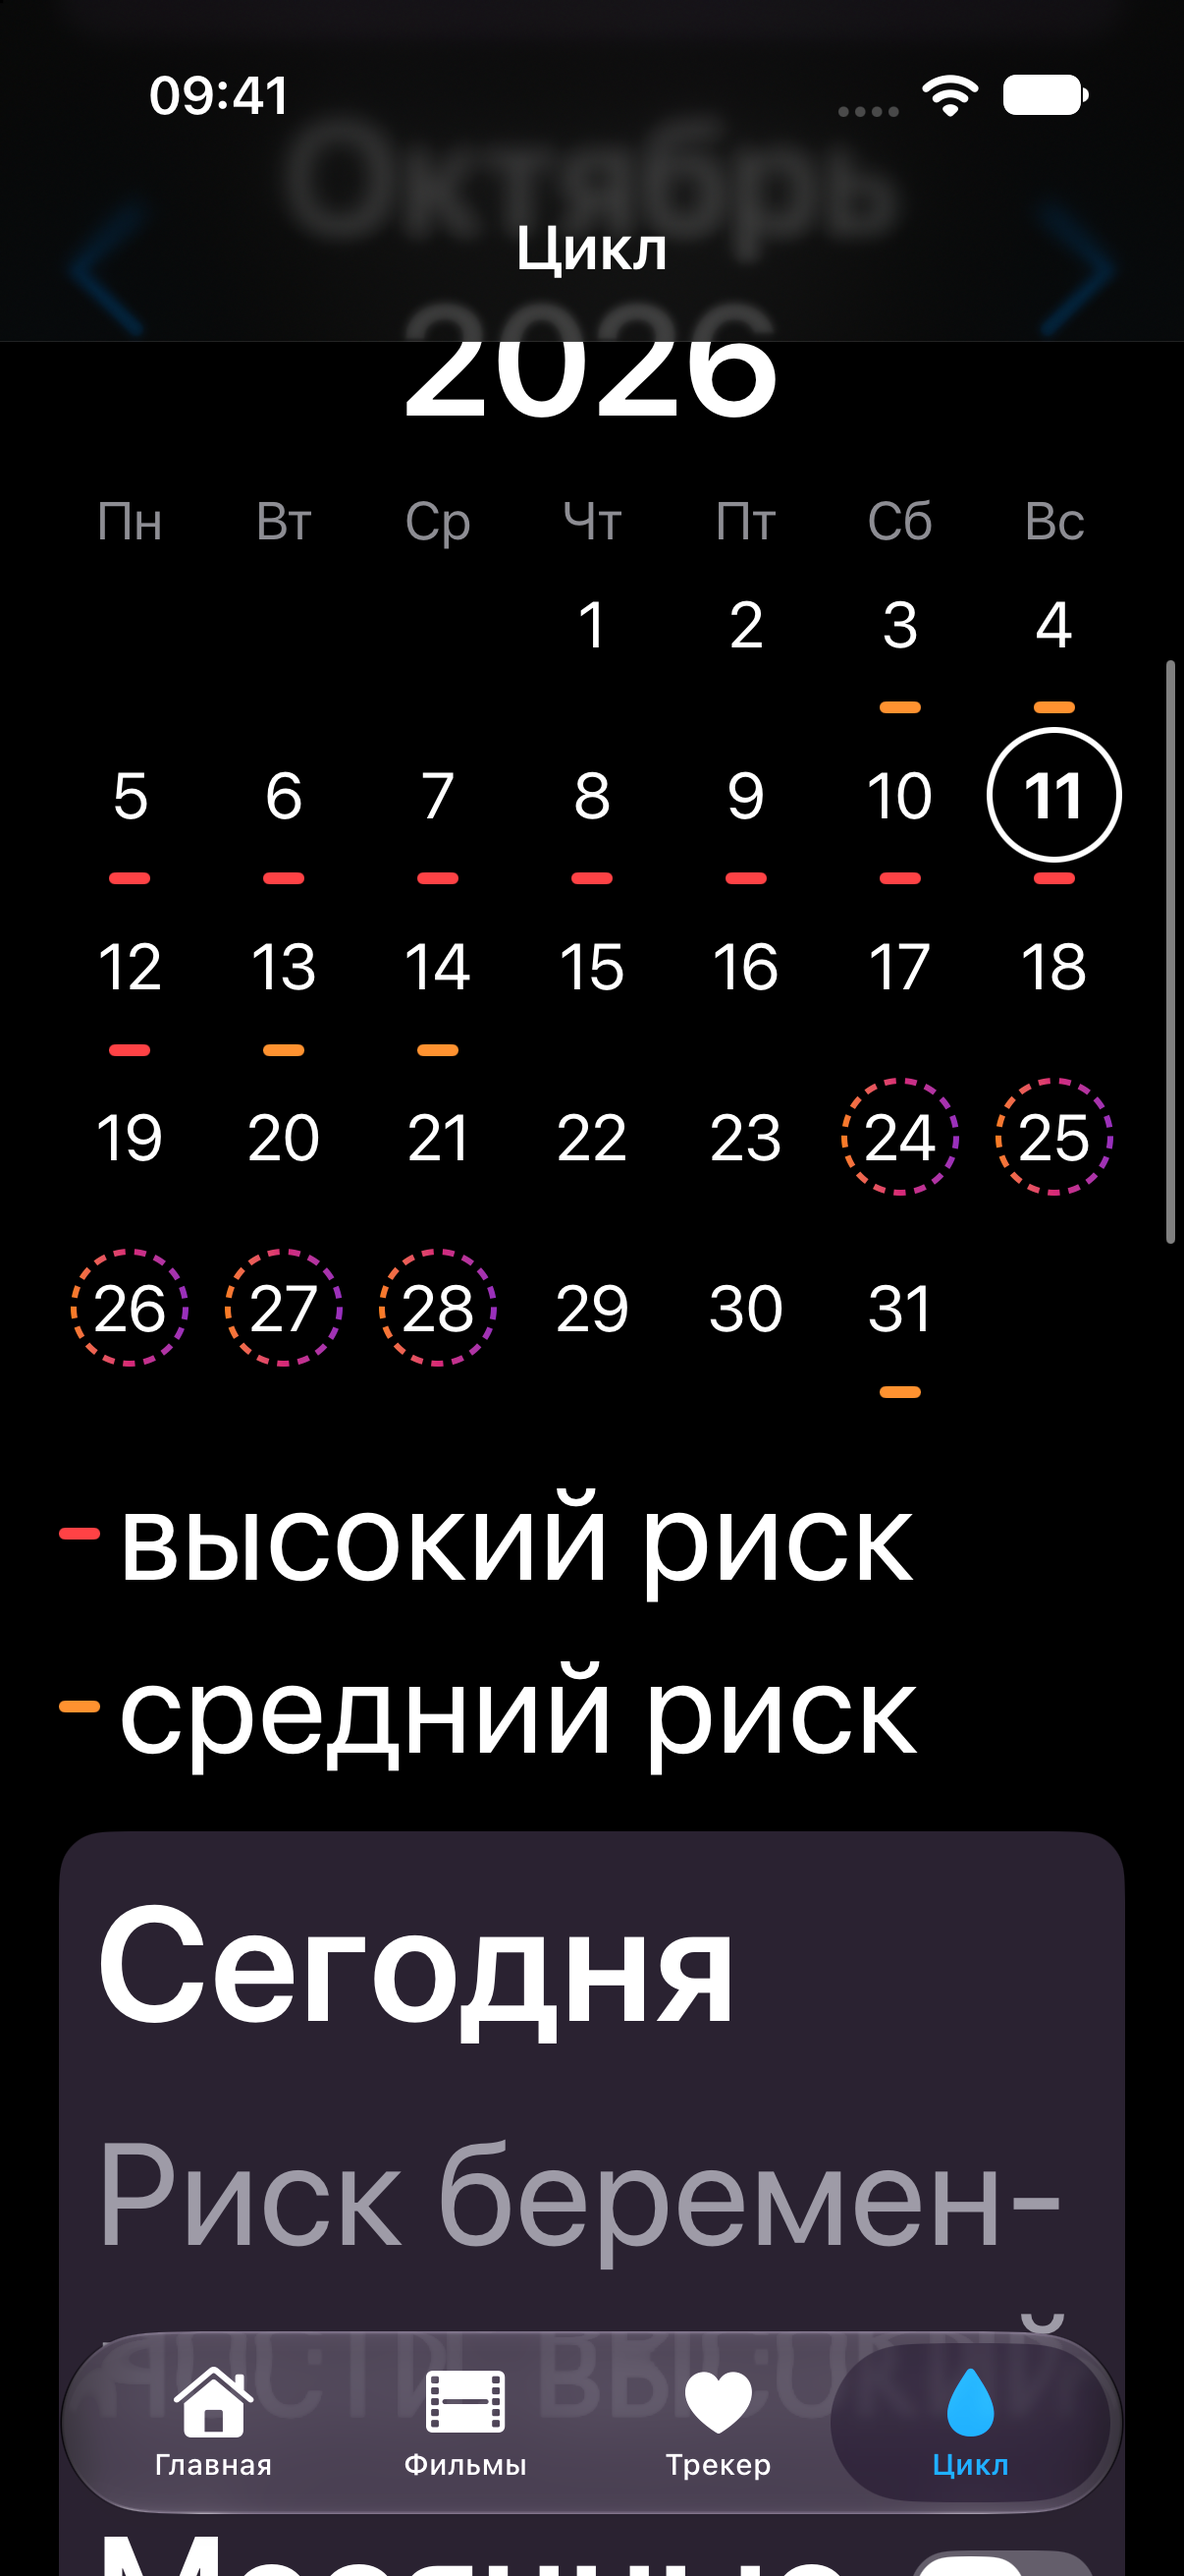
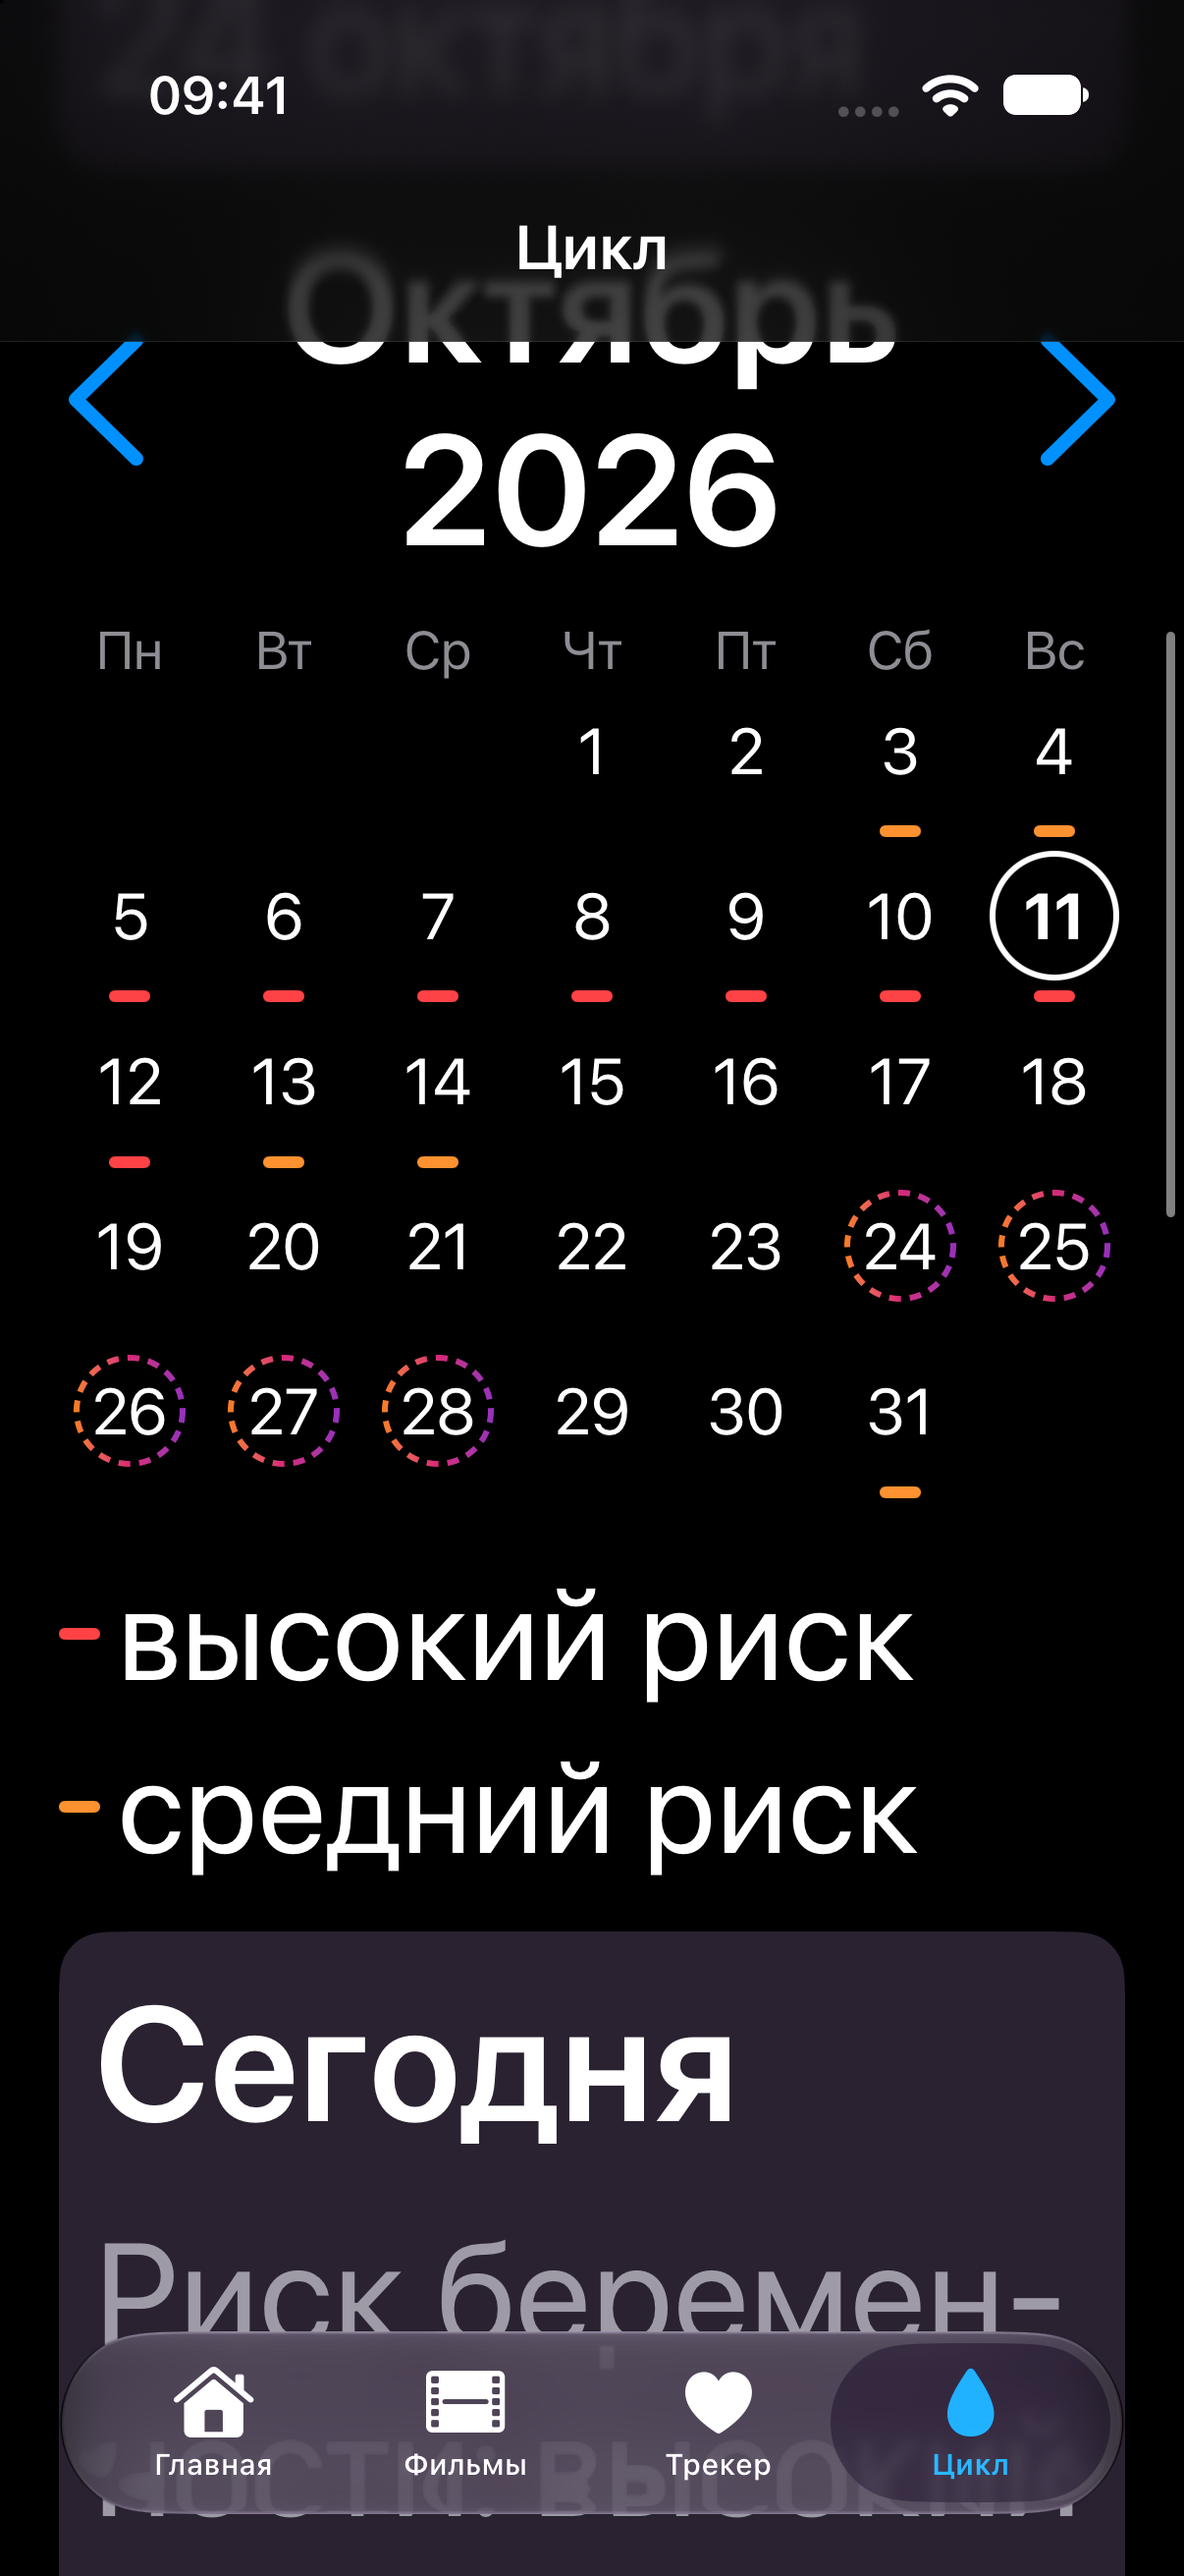
Уменьшить предел круга числа до 38 pt
С кольцом выбора круг занимает 44 pt и помещается в колонку iPhone SE,
не вылезая за заливку фазы. Скриншоты пересняты.

diff --git a/App/OneToOne/Features/Cycle/MonthGridView.swift b/App/OneToOne/Features/Cycle/MonthGridView.swift
@@ -50,7 +50,7 @@ struct MonthGridView: View {
                     }
                 }
             }
-            // Семь колонок по ~45 pt: крупнее «28» и «Пн» в них не влезут, поэтому сетка растёт только до xxxLarge.
+            // Семь колонок по ~44 pt на iPhone SE: крупнее «28» и «Пн» в них не влезут, поэтому сетка растёт только до xxxLarge.
             // Шапка, легенды и карточка дня растут дальше, VoiceOver читает каждый день целиком.
             .dynamicTypeSize(...DynamicTypeSize.xxxLarge)
         }
@@ -70,9 +70,9 @@ private struct DayCell: View {
     let action: (() -> Void)?
     @Environment(\.locale) private var locale
     @Environment(\.colorScheme) private var colorScheme
-    /// Круг числа растёт со шрифтом, но не шире 40: с кольцом выбора он должен влезть в колонку.
+    /// Круг числа растёт со шрифтом, но не шире 38: с кольцом выбора (+6) это 44, ширина колонки на iPhone SE.
     @ScaledMetric(relativeTo: .callout) private var scaledCircle: CGFloat = 34
-    private var circle: CGFloat { min(scaledCircle, 40) }
+    private var circle: CGFloat { min(scaledCircle, 38) }
 
     var body: some View {
         if let action {

diff --git a/docs/decisions.md b/docs/decisions.md
@@ -46,4 +46,4 @@
 - 2026-10-10: Риск беременности считаем календарным методом (Огино–Кнаус), низкий только при ≥3 циклах с разбросом ≤10 дней, „безопасных“ дней не показываем. Причина: прогноз не знает настоящую овуляцию, обещать безопасность нечестно.
 - 2026-10-10: Офлайн-каталог фильмов: в пакете лежит `movies.json` (топ-150 Кинопоиска, обновляет `swift run UpdateMovies` с ключом), а всё, что пришло от Кинопоиска, телефон запоминает в отдельном файле `MovieCatalogCache.json` (не в `AppData`, в iCloud не едет; до 2000 фильмов, вытесняются самые давние). Раз в день — 2 запроса: следующая страница топа и новинки года; день засчитывается, если пришёл хоть один ответ; пока база пустая, догрузка идёт с первой страницы топа. В колоду всегда добавляются фильмы с телефона по жанрам настроения (по рейтингу Кинопоиска, до 40) после сетевых рекомендаций. Причина: колода собирается без сети и после лимита 200 запросов в день, при этом запросов на подбор не больше, чем было; решили при обсуждении #55.
 - 2026-10-10: Пока месячные задерживаются, в будущих днях календаря нет низкого риска: окно по прогнозу остаётся высоким, остальное — «средний, задержка». Причина: без заворота сегодня задержка, а завтра по прогнозу «низкий» — пустой день в календаре выглядел бы разрешением; нашлось на ревью #65.
-- 2026-10-11: Сетка календаря цикла (`MonthGridView`) растёт со шрифтом только до `.xxxLarge`, круг числа — до 40 pt; шапка месяца, легенды и карточка дня растут без предела, легенда фаз на размерах Универсального доступа в одну колонку. Причина: семь колонок по ~45 pt на iPhone SE и iPhone 17, крупнее «28» и «Пн» в них не помещаются, а VoiceOver и карточка дня дают полную дату крупно; решено на брейншторме #72.
+- 2026-10-11: Сетка календаря цикла (`MonthGridView`) растёт со шрифтом только до `.xxxLarge`, круг числа — до 38 pt (с кольцом выбора 44 pt, колонка iPhone SE); шапка месяца, легенды и карточка дня растут без предела, легенда фаз на размерах Универсального доступа в одну колонку. Причина: семь колонок по ~45 pt на iPhone SE и iPhone 17, крупнее «28» и «Пн» в них не помещаются, а VoiceOver и карточка дня дают полную дату крупно; решено на брейншторме #72.

diff --git a/docs/superpowers/plans/2026-10-10-calendar-large-text.md b/docs/superpowers/plans/2026-10-10-calendar-large-text.md
@@ -13,7 +13,7 @@
 ## Global Constraints
 
 - Предел шрифта сетки: `.dynamicTypeSize(...DynamicTypeSize.xxxLarge)` только на `LazyVGrid` в `MonthGridView` (шапка и легенды без предела).
-- Круг числа: `@ScaledMetric(relativeTo: .callout)` с базой 34, не больше 40 pt (`min(…, 40)`). На обычном размере (`.large`) ровно 34, как сейчас.
+- Круг числа: `@ScaledMetric(relativeTo: .callout)` с базой 34, не больше 38 pt (`min(…, 38)`, с кольцом 44 pt = колонка iPhone SE). На обычном размере (`.large`) ровно 34, как сейчас.
 - Точка симптомов (5×5), полоска риска (`RiskMark` 14×4), отступы ячейки и её `minHeight: 44` не меняются.
 - Пунктир прогноза, обводка выбранного дня (`padding(-3)`) и заливка месячных привязаны к кругу и растут вместе с ним.
 - На обычном размере шрифта вид не меняется.
@@ -21,7 +21,7 @@
 
 ## Review Focus
 
-- iPhone SE (ширина 375): на `.xxxLarge` обводка выбранного дня (40 + 6 = 46 pt) не должна налезать на соседнее число (колонка ~44 pt плюс 4 pt промежутка).
+- iPhone SE (ширина 375): на `.xxxLarge` обводка выбранного дня (38 + 6 = 44 pt) не должна налезать на соседнее число (колонка ~44 pt плюс 4 pt промежутка).
 - Размеры Универсального доступа AX1…AX5: сетка остаётся как на `.xxxLarge`, шапка месяца переносит длинное название («Сентябрь 2026») и не налезает на стрелки.
 - `PhaseLegend` на AX-размерах: «Фолликулярная» не рвётся посреди слова.
 - Тёмная тема: заливка фаз и цвета не меняются (вёрстку трогаем, цвета нет).
@@ -38,7 +38,7 @@
 - Modify: `docs/decisions.md`
 
 - [ ] **Step 1:** В `MonthGridView.body` на `LazyVGrid` добавить `.dynamicTypeSize(...DynamicTypeSize.xxxLarge)` с комментарием почему.
-- [ ] **Step 2:** В `DayCell` добавить `@ScaledMetric(relativeTo: .callout) private var scaledCircle: CGFloat = 34` и `private var circle: CGFloat { min(scaledCircle, 40) }`; заменить `.frame(width: 34, height: 34)` на `.frame(width: circle, height: circle)`.
+- [ ] **Step 2:** В `DayCell` добавить `@ScaledMetric(relativeTo: .callout) private var scaledCircle: CGFloat = 34` и `private var circle: CGFloat { min(scaledCircle, 38) }`; заменить `.frame(width: 34, height: 34)` на `.frame(width: circle, height: circle)`.
 - [ ] **Step 3:** В шапке у `Text(month.title)` добавить `.multilineTextAlignment(.center)`.
 - [ ] **Step 4:** Превью `#Preview("Крупный шрифт")` для `MonthGridView` с месячными, прогнозом, симптомами, рисками и выбранным днём, `.dynamicTypeSize(.accessibility3)`; плюс обычное превью с теми же данными.
 - [ ] **Step 5:** Строка в `docs/decisions.md`.
